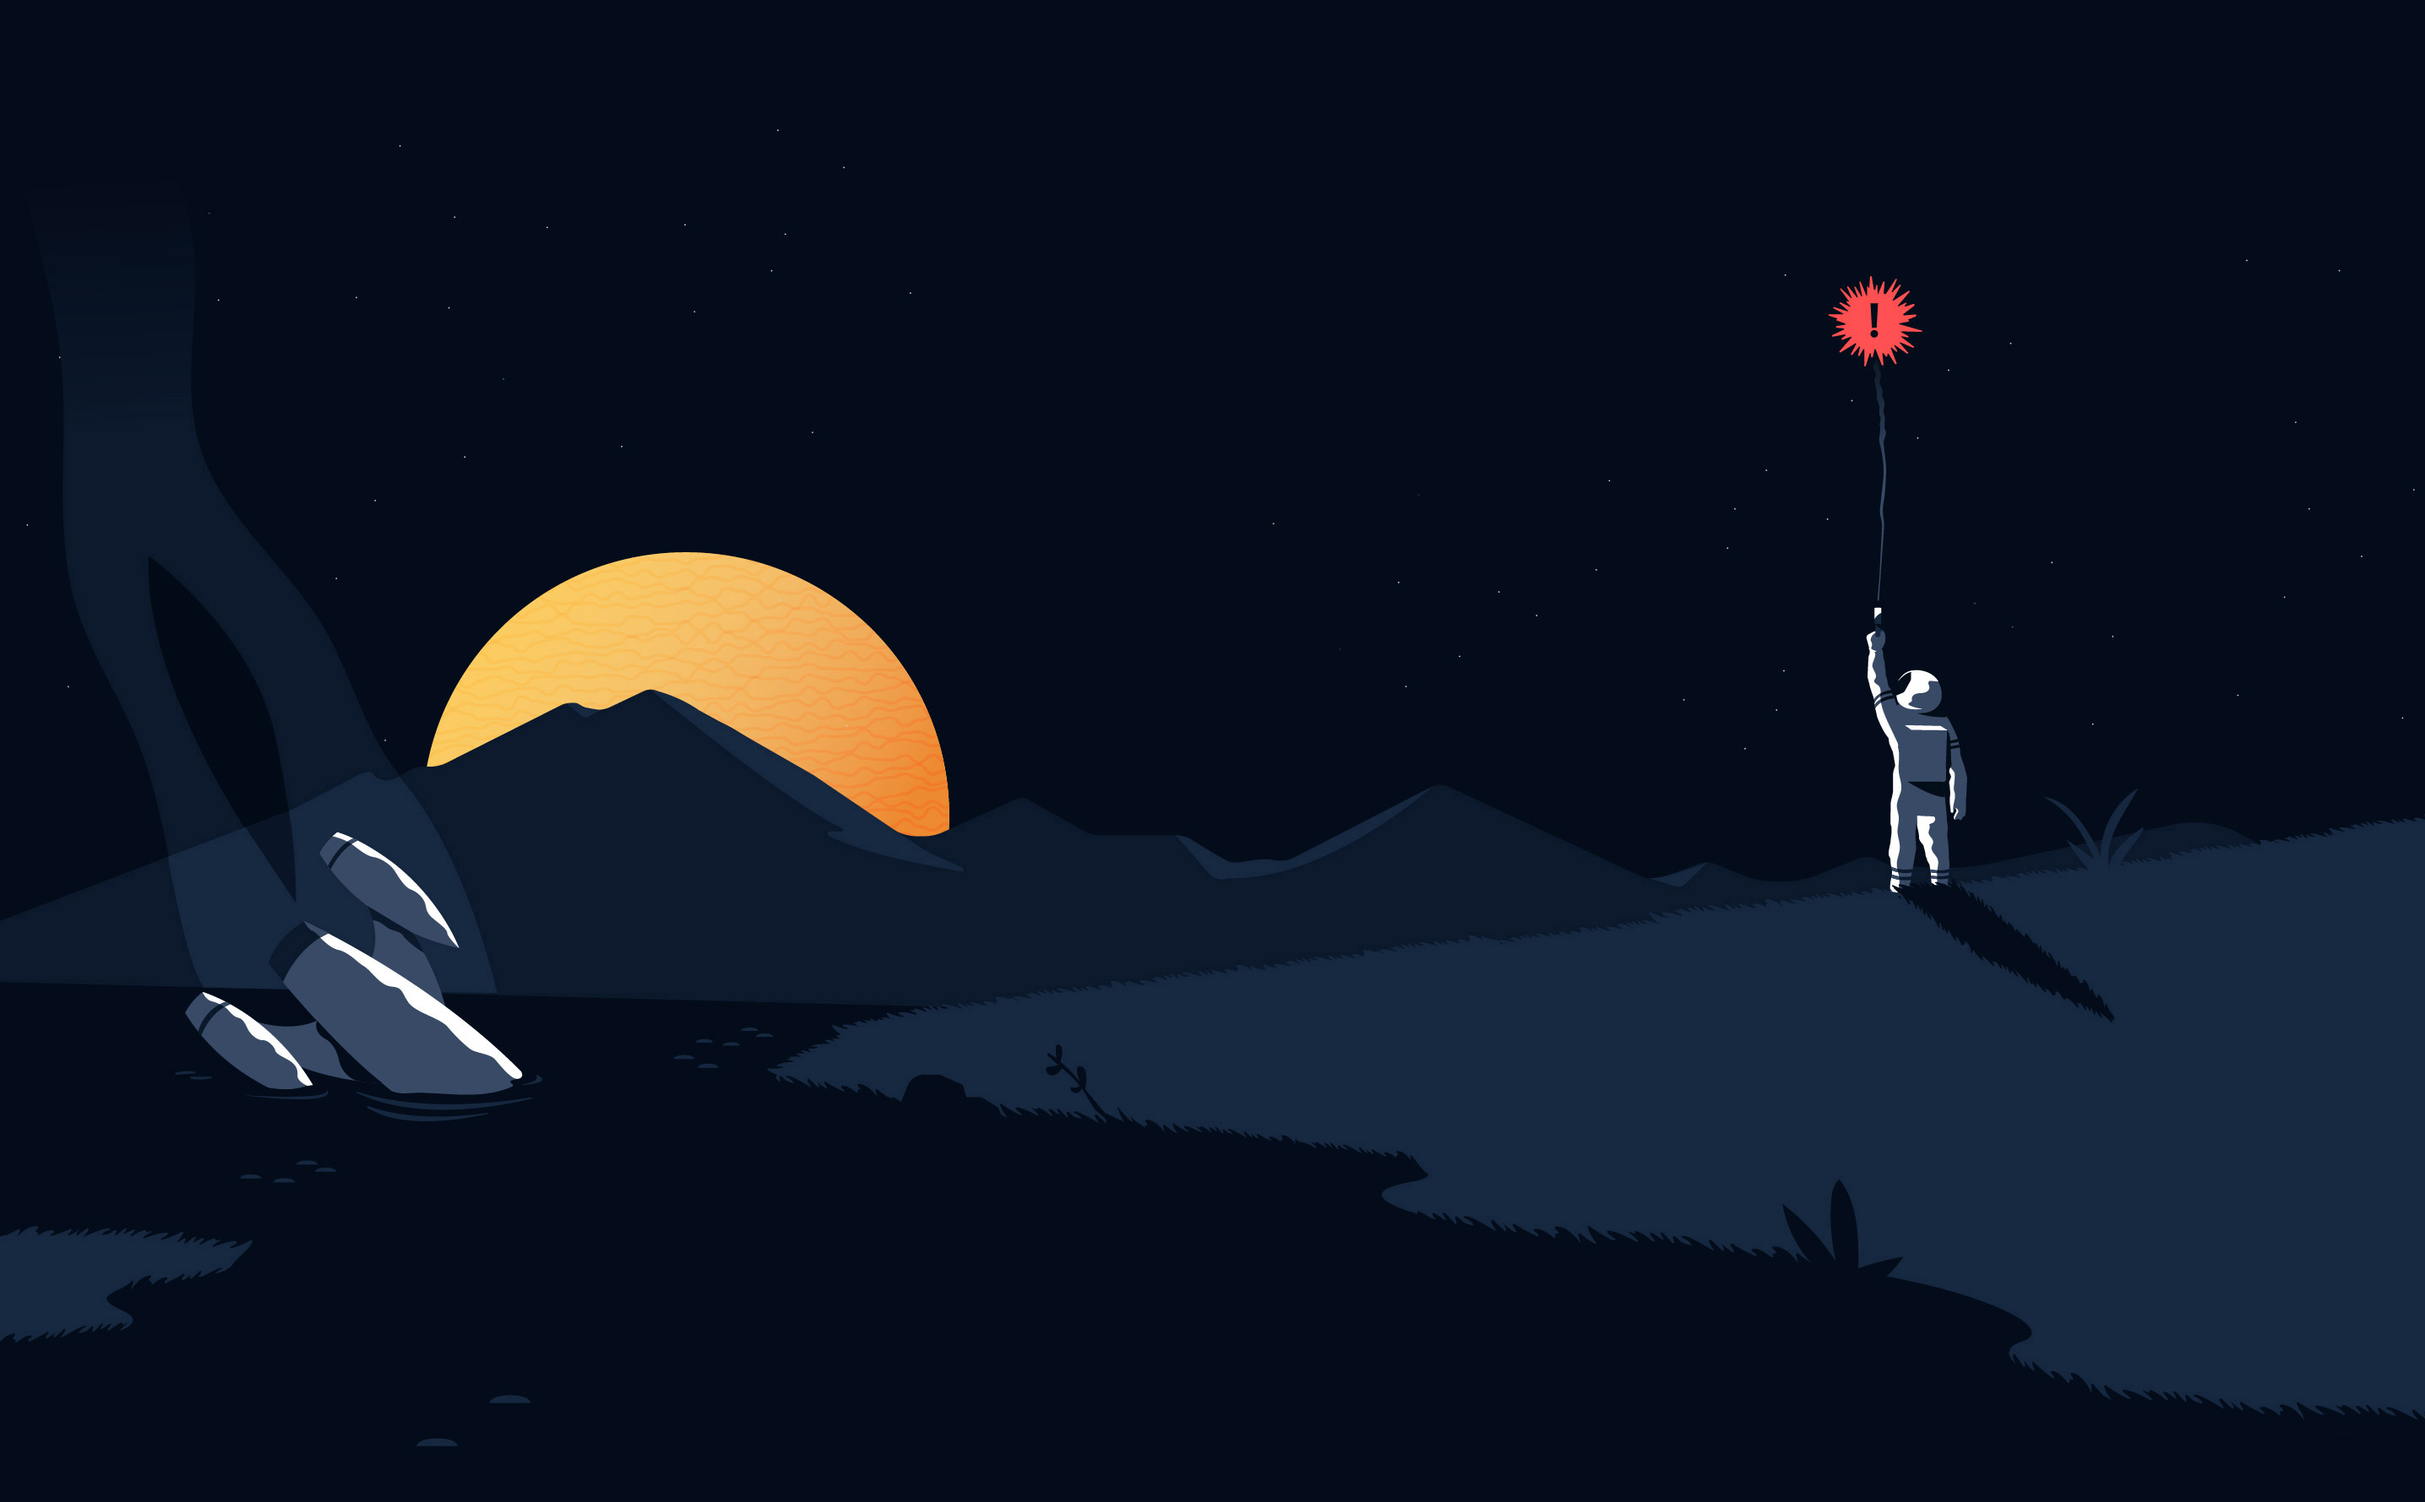
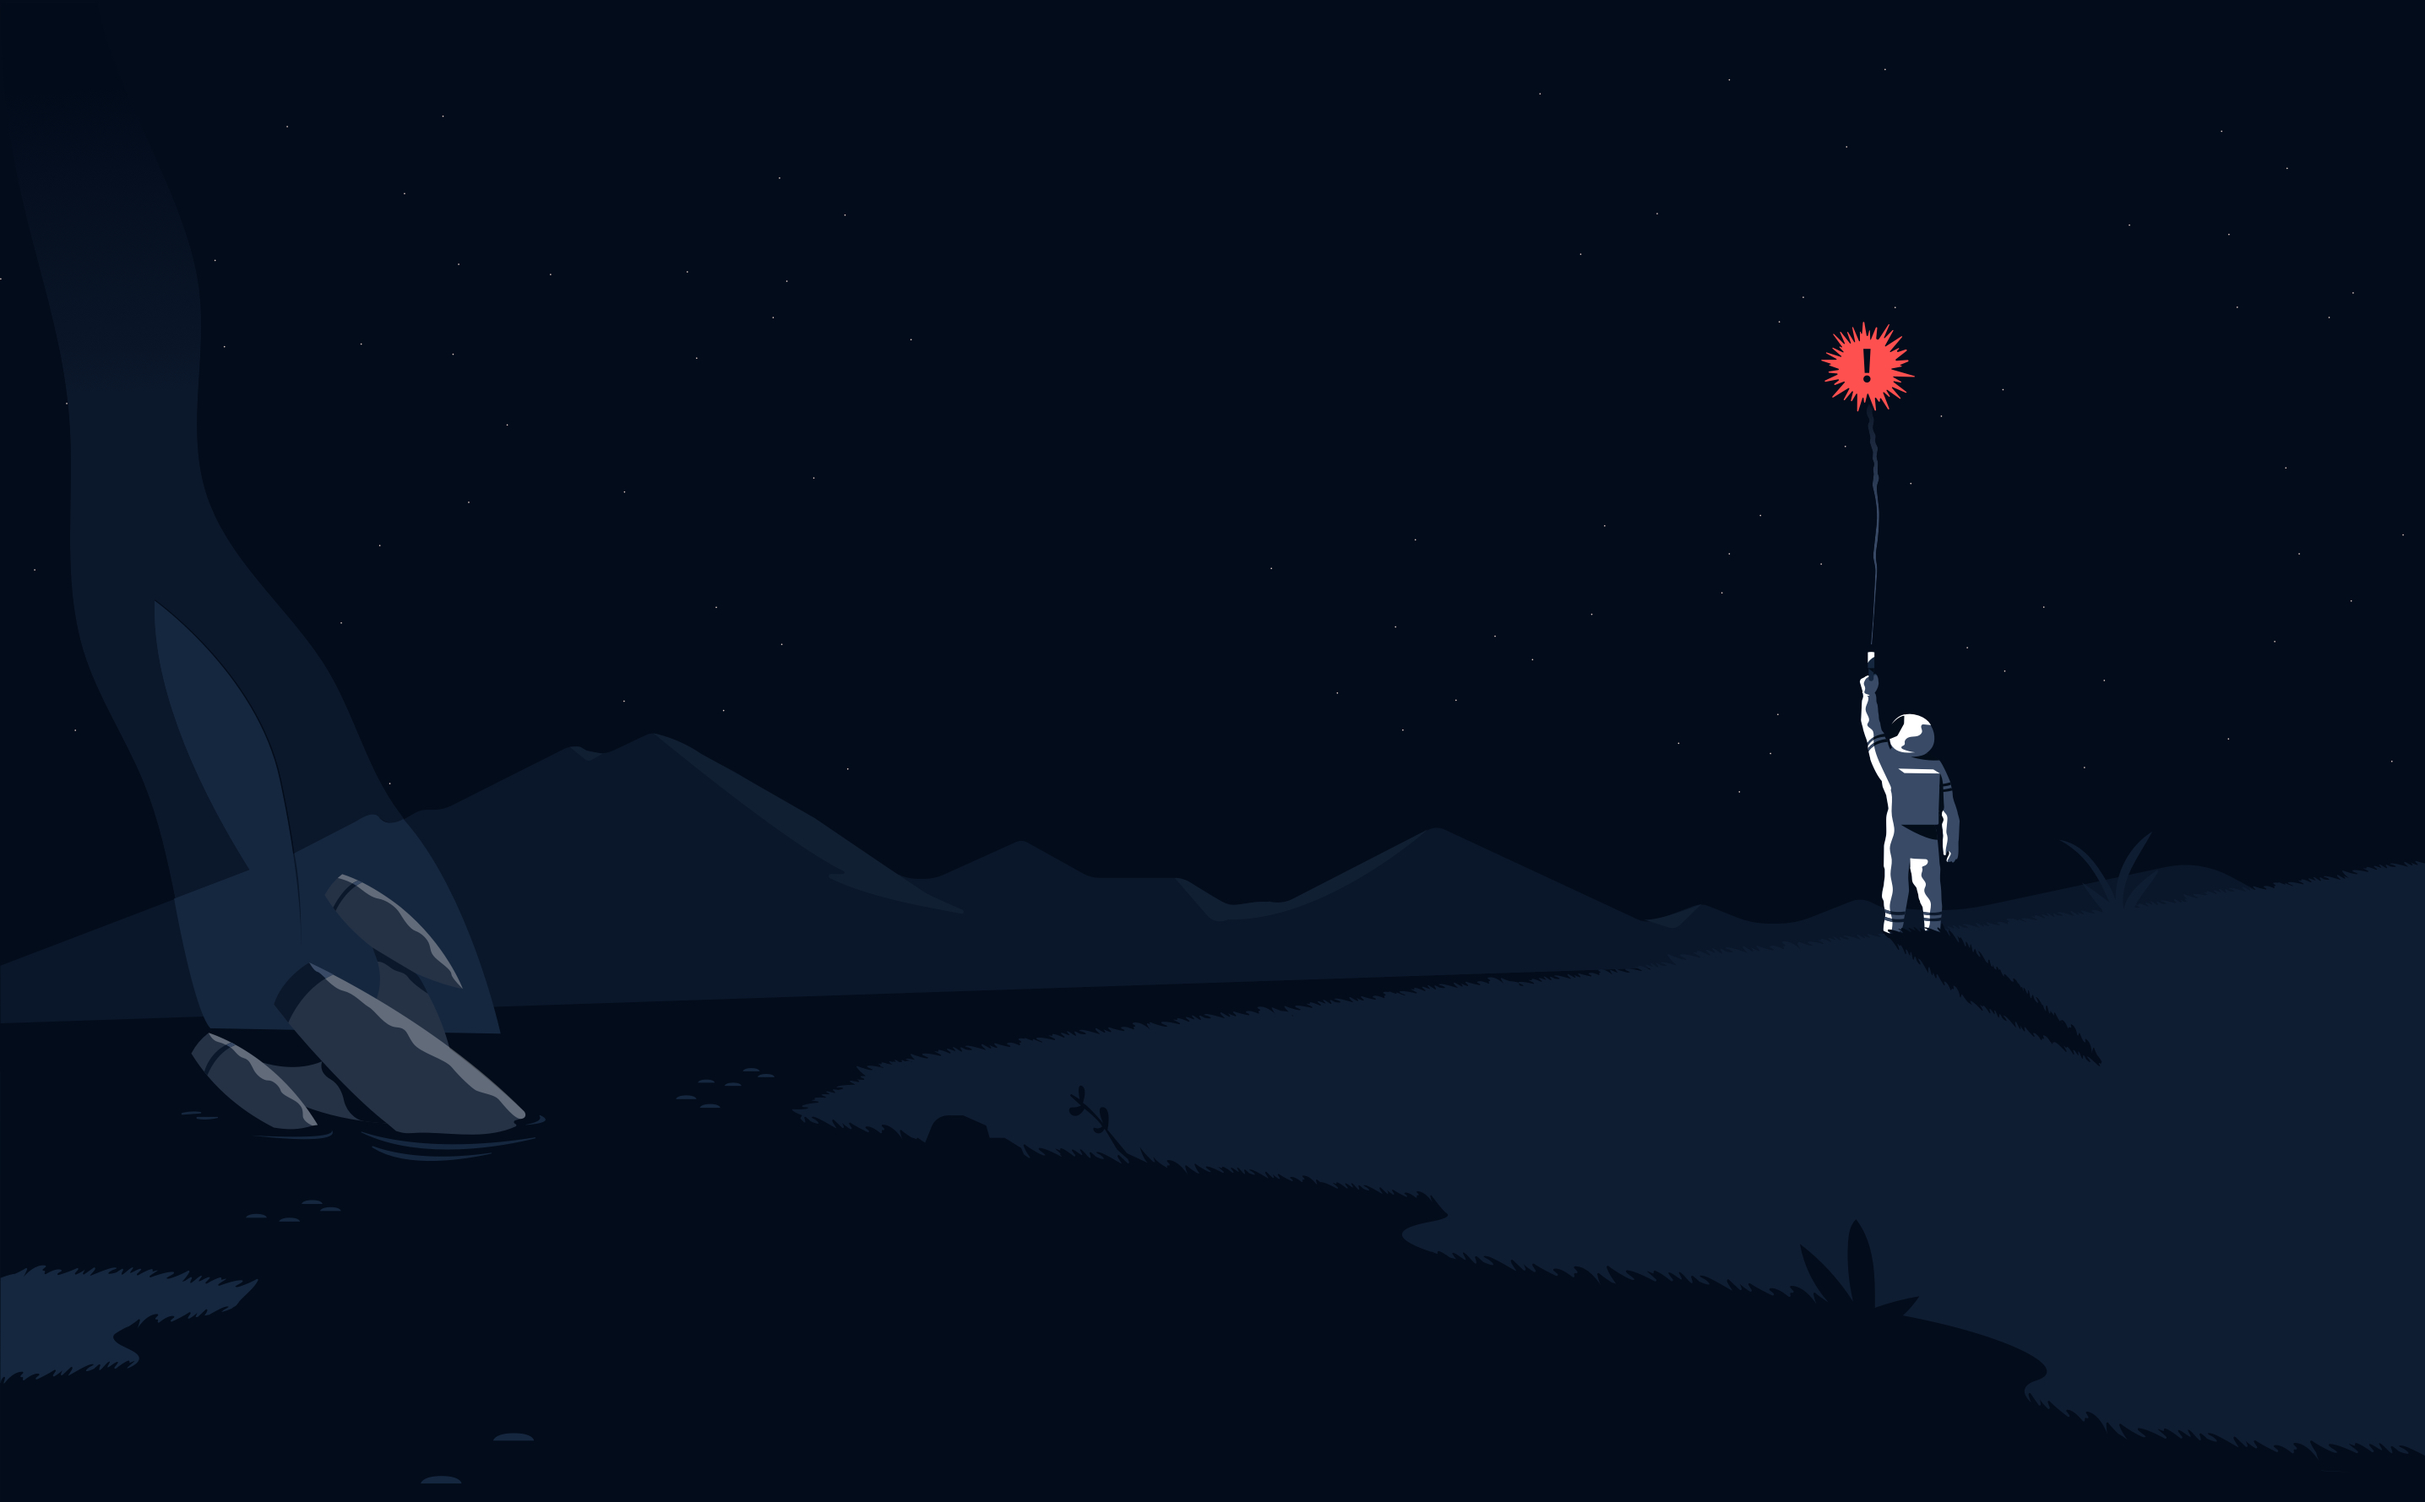
[NEW] Added image background on reload screen
Must to fix some paddings bug on the label before merging it

diff --git a/src/public/loading-error.html b/src/public/loading-error.html
@@ -8,17 +8,17 @@
 	<meta name="viewport" content="width=device-width, initial-scale=1, maximum-scale=1, user-scalable=no" />
 	<link rel="stylesheet" type="text/css" href="../stylesheets/main.css">
 </head>
-<body style="height: 100%;">
-	<section style="text-align: center;background-color: #022439;height:100%;">
-        <img src="./images/error.png" />
+<body background="./images/error.jpg">
+	<section style="text-align: center;background-color: #030C1A;height:100%;">
         <div class="load-fail" id="load-fail">
+            <h2 style="color:white; font-size: 28px; line-height: 32px;"><script>document.write(window.i18n.__('Houston, we have a problem'))</script></h2>
             <h2 style="color:white"><script>document.write(window.i18n.__('Server_Failed_to_Load'))</script></h2>
             <div class="loading-animation" id="loading" style="display:none;">
                 <div class="bounce1"></div>
                 <div class="bounce2"></div>
                 <div class="bounce3"></div>
             </div>
-            <button class="button primary" id="reload"><script>document.write(window.i18n.__('Reload'))</script></button>
+            <button class="button primary" style="background-color:#1D74F5" id="reload"><script>document.write(window.i18n.__('Reload'))</script></button>
         </div>
 	</section>
 </body>

diff --git a/src/stylesheets/main.less b/src/stylesheets/main.less
@@ -26,6 +26,10 @@ body {
 	-webkit-font-smoothing: antialiased;
 	line-height: 1rem;
 	padding: 0;
+    background-color: #030C1A;
+    background-position: center bottom;
+    background-repeat: no-repeat;
+    background-size: 100% auto
 }
 
 .rocket-h2 {
